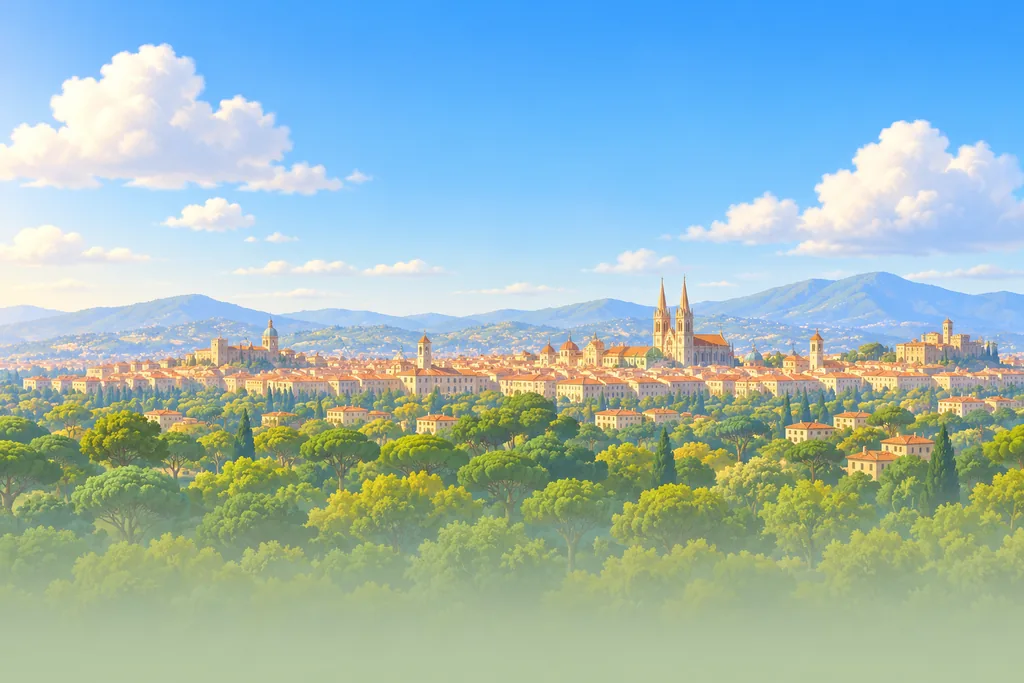
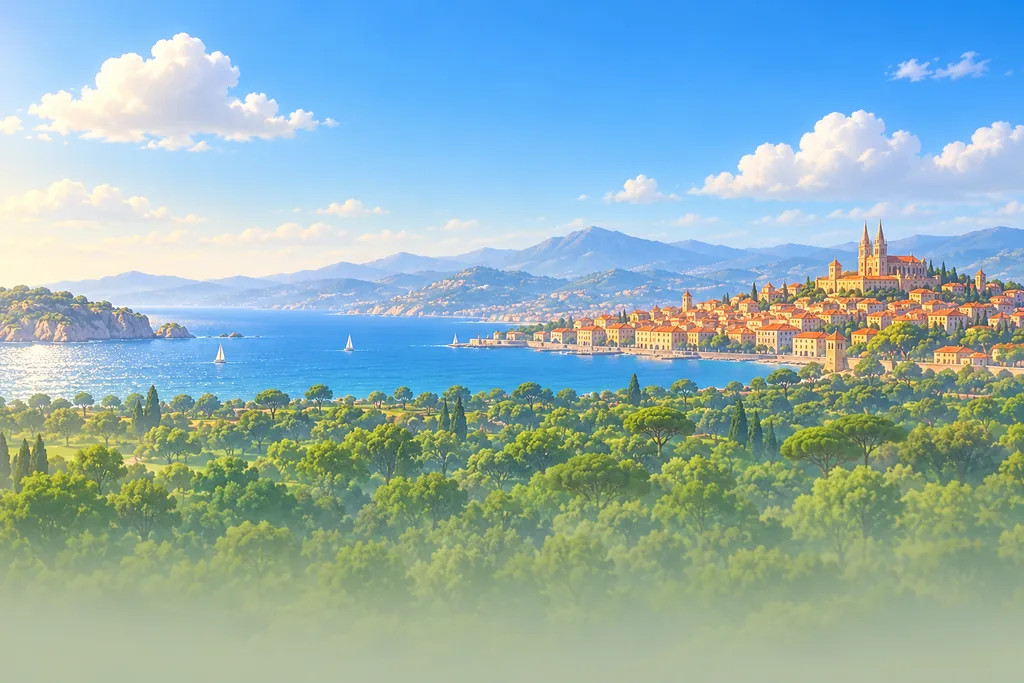
Papierpilot: Fluss mit Steinbrücken, Küstenpanorama, Möwen
Claude-Session: https://claude.ai/code/session_01VwMg3sfRcARXgQsn9WbmLP

diff --git a/public/spiele/papierpilot/game.js b/public/spiele/papierpilot/game.js
@@ -1,7 +1,7 @@
 // PAPIERPILOT: Darstellung (three.js, global THREE), Steuerung, Ton, Speicherstand.
 // Spielregeln stehen ausschließlich in sim.js; hier wird nur gezeigt und eingegeben.
 import { neuerFlug, vorbereiteteStrecke, kraftBei, kodiere, M, TAKT_HZ, LINKS, RECHTS, TIPP, AUF_R, RING_R, START_Y } from './sim.js';
-import { TYPEN, TESTSTRECKE, baueStrecke } from './strecke.js';
+import { TYPEN, TESTSTRECKE, FLUSS_B, baueStrecke } from './strecke.js';
 
 const T = window.THREE;
 const $ = (id) => document.getElementById(id);
@@ -71,7 +71,7 @@ let DUNST = new T.Color(0xb5c5a1);
 scene.fog = new T.Fog(DUNST, 60, SICHT + 60);
 
 const IMG = (n) => new URL('img/' + n + '.webp', import.meta.url).href;
-let ASP = { 'baum-rund': 0.967, 'baum-zypresse': 0.208, haus: 1.032, 'haus-schmal': 0.494, 'haus-flach': 2.6, turm: 0.247, 'flieger-gerade': 1.365, panorama: 1.5 };
+let ASP = { 'baum-rund': 0.967, 'baum-zypresse': 0.208, haus: 1.032, 'haus-schmal': 0.494, 'haus-flach': 2.6, turm: 0.247, bruecke: 3.67, 'flieger-gerade': 1.365, panorama: 1.5 };
 const ladeTex = (n, fn) => new T.TextureLoader().load(IMG(n), (t) => { t.needsUpdate = true; fn && fn(t); }, undefined, () => {});
 const canvasTex = (w, h, draw) => { const c = document.createElement('canvas'); c.width = w; c.height = h; draw(c.getContext('2d'), w, h); return new T.CanvasTexture(c); };
 
@@ -94,7 +94,7 @@ const PANO_D = 320, PANO_B = 640;
 const panoMat = new T.MeshBasicMaterial({ map: ladeTex('panorama'), fog: false, depthWrite: false });
 const pano = new T.Mesh(new T.PlaneGeometry(PANO_B, PANO_B / 1.5), panoMat);
 pano.renderOrder = -1; scene.add(pano);
-let panoHorizont = 0.56;
+let panoHorizont = 0.46;
 
 // Schatten (weicher Fleck)
 const schattenTex = canvasTex(64, 64, (x, w, h) => { const g = x.createRadialGradient(w / 2, h / 2, 2, w / 2, h / 2, w / 2); g.addColorStop(0, 'rgba(20,40,10,.55)'); g.addColorStop(1, 'rgba(20,40,10,0)'); x.fillStyle = g; x.fillRect(0, 0, w, h); });
@@ -145,6 +145,39 @@ for (const a of WELT.a) {
   const g = new T.CylinderGeometry(1, 1, AUF_H, 28, 1, true); g.translate(0, AUF_H / 2, 0);
   const m = new T.Mesh(g, aufMat); m.renderOrder = 2; m.position.set(a.x, 0, -(a.z + a.l / 2)); m.scale.set(AUF_R / M, 1, a.l / 2); scene.add(m);
   const fleck = schatten(a.x, a.z + a.l / 2, AUF_R / M * 2.4, a.l * 1.1, 1); fleck.material = new T.MeshBasicMaterial({ map: schattenTex, color: 0x3fe3dc, transparent: true, opacity: 0.55, depthWrite: false, blending: T.AdditiveBlending });
+}
+
+// Fluss: flacher Streifen über dem Rasen; die Brücken an beiden Enden verdecken die Wasserkanten
+const flussTex = ladeTex('fluss'); flussTex.wrapS = T.ClampToEdgeWrapping; flussTex.wrapT = T.RepeatWrapping;
+flussTex.anisotropy = Math.min(8, renderer.capabilities.getMaxAnisotropy());
+const flussMat = new T.MeshBasicMaterial({ map: flussTex });
+for (const w of WELT.w) {
+  const g = new T.PlaneGeometry(FLUSS_B, w.l), uv = g.attributes.uv;
+  for (let i = 0; i < uv.count; i++) uv.setY(i, uv.getY(i) * w.l / (FLUSS_B * 1.5));   // Bild ist 1 : 1,5
+  const m = new T.Mesh(g, flussMat); m.rotation.x = -Math.PI / 2; m.position.set(w.x, 0.02, -(w.z + w.l / 2)); m.renderOrder = 0; scene.add(m);
+}
+
+// Möwen: nur Optik, im Code gezeichnet (zwei Flügelstellungen), kreisen hoch über der Strecke
+const moeweTex = [0, 1].map((oben) => canvasTex(128, 64, (x, w, h) => {
+  const y0 = oben ? 18 : 40, y1 = oben ? 46 : 30;
+  x.lineCap = 'round'; x.lineJoin = 'round';
+  for (const [farbe, breite] of [['#5b6470', 11], ['#ffffff', 7]]) {
+    x.strokeStyle = farbe; x.lineWidth = breite; x.beginPath();
+    x.moveTo(8, y0); x.quadraticCurveTo(36, oben ? 8 : 26, 64, y1); x.quadraticCurveTo(92, oben ? 8 : 26, 120, y0); x.stroke();
+  }
+  x.fillStyle = '#3a3f47'; x.beginPath(); x.arc(9, y0, 4, 0, 7); x.arc(119, y0, 4, 0, 7); x.fill();
+}));
+const moeweMat = moeweTex.map((tx) => ausblenden(new T.MeshBasicMaterial({ map: tx, alphaTest: 0.5, side: T.DoubleSide })));
+const moewen = [];
+{
+  let r = 0x51a7; const zz = () => { r = (Math.imul(r, 1664525) + 1013904223) >>> 0; return r / 4294967296; };
+  for (let z = 30; z < WELT.laenge + 100; z += 45 + zz() * 40) {
+    const n = 1 + Math.floor(zz() * 3), cx = (zz() - 0.5) * 30, cy = 25 + zz() * 12;
+    for (let i = 0; i < n; i++) {
+      const m = new T.Mesh(new T.PlaneGeometry(1.15, 0.58), moeweMat[0]); scene.add(m);
+      moewen.push({ m, cx: cx + (zz() - 0.5) * 6, cz: z + (zz() - 0.5) * 6, y: cy + zz() * 3, r: 5 + zz() * 8, w: (zz() < 0.5 ? -1 : 1) * (0.25 + zz() * 0.2), ph: zz() * 6.28, fl: 7 + zz() * 3 });
+    }
+  }
 }
 
 // Ringe: goldener Torus mit Schein
@@ -286,7 +319,7 @@ function ende() {
   store.fluege++;
   if (rekord) { store.best = cm; store.bestT = s.ft; store.bestIn = kodiere(eingaben); }
   speichern();
-  const namen = { baum: 'Baum', zypresse: 'Zypresse', haus: 'Haus', hausHoch: 'Haus', hausFlach: 'Haus', turm: 'Turm' };
+  const namen = { baum: 'Baum', zypresse: 'Zypresse', haus: 'Haus', hausHoch: 'Haus', hausFlach: 'Haus', turm: 'Turm', bruecke: 'Brücke' };
   $('eKopf').textContent = rekord && cm > 0 ? 'Neuer Bestflug!' : s.grund === 'hindernis' ? 'Gegen ' + (s.treffer >= 0 ? (s.treffer >= 0 && namen[STRECKE.o[s.treffer].t]) : 'Hindernis') + '!' : 'Gelandet';
   $('eKopf').className = rekord && cm > 0 ? 'rek' : '';
   $('eDist').innerHTML = meter(cm) + '<small> m</small>';
@@ -366,6 +399,14 @@ function bild(now) {
   // Spuren
   const sp = spitzen(p);
   spuren.forEach((q, i) => { q.m.visible = zustand !== 'wurf' && zustand !== 'titel'; if (q.m.visible) spurZeichnen(q, sp[i]); });
+
+  // Möwen
+  for (const g of moewen) {
+    const a = g.ph + zeit * g.w;
+    g.m.position.set(g.cx + Math.cos(a) * g.r, g.y + Math.sin(zeit * 0.8 + g.ph) * 0.7, -(g.cz + Math.sin(a) * g.r));
+    g.m.quaternion.copy(camera.quaternion);
+    g.m.material = moeweMat[Math.sin(zeit * g.fl + g.ph) > -0.2 ? 1 : 0];
+  }
 
   // Aufwind-Animation und Ringe
   aufMat.uniforms.t.value = zeit;

diff --git a/public/spiele/papierpilot/strecke.js b/public/spiele/papierpilot/strecke.js
@@ -12,12 +12,16 @@ export const TYPEN = {
   haus:     { bild: 'haus',          bildH: 9.7,  form: 'kasten', hx: 4.4, hz: 2.0, h: 9.0 },
   hausHoch: { bild: 'haus-schmal',   bildH: 13.0, form: 'kasten', hx: 2.9, hz: 2.0, h: 12.0 },   // kaum zu überfliegen
   hausFlach:{ bild: 'haus-flach',    bildH: 5.6,  form: 'kasten', hx: 6.6, hz: 2.5, h: 5.0 },    // flach: mit etwas Höhe drüber
-  turm:     { bild: 'turm',          bildH: 23.5, form: 'kasten', hx: 2.2, hz: 2.2, h: 20.5 }
+  turm:     { bild: 'turm',          bildH: 23.5, form: 'kasten', hx: 2.2, hz: 2.2, h: 20.5 },
+  bruecke:  { bild: 'bruecke',       bildH: 4.6,  form: 'kasten', hx: 8.0, hz: 1.0, h: 3.8 }      // niedrig: drüber oder links vorbei
 };
+
+export const FLUSS_B = 16;   // Breite des Flussbilds (Wasser ca. 10,5 m in der Mitte, Rest Ufermauer und Rasen)
 
 export const LAENGE = 40;   // Länge eines Abschnitts
 
-// o: [typ, x, z]   a: Aufwind [x, zAnfang, Länge]   r: Ring [x, y, z]   (z relativ zum Abschnitt)
+// o: [typ, x, z]   a: Aufwind [x, zAnfang, Länge]   r: Ring [x, y, z]   w: Fluss [xMitte, zAnfang, Länge] (nur Optik)
+// (z relativ zum Abschnitt)
 export const ABSCHNITTE = {
   start:    { o: [['haus', -8, 10], ['hausFlach', 6, 22], ['hausHoch', -2, 36]], a: [[-5, 16, 14]], r: [[-5, 15, 14]] },
   allee:    { o: [['baum', -7, 8], ['baum', 7, 8], ['baum', -7, 24], ['baum', 7, 24], ['zypresse', 0, 32]], a: [[0, 8, 14]], r: [[0, 13, 8]] },
@@ -26,22 +30,25 @@ export const ABSCHNITTE = {
   lichtung: { o: [['baum', -9, 12], ['baum', 9, 22]], a: [[2, 6, 16], [-6, 30, 10]], r: [[2, 12, 6]] },
   tuerme:   { o: [['turm', -5, 10], ['turm', 5, 28], ['zypresse', 6, 12]], a: [[-1, 14, 12]], r: [[0, 11, 19]] },
   hecke:    { o: [['baum', -9, 20], ['baum', -3.5, 20], ['baum', 8.5, 20], ['zypresse', -8, 36]], a: [[3, 24, 12]], r: [[2.5, 10, 20]] },
-  haeuser:  { o: [['hausHoch', -6, 8], ['hausFlach', 5, 18], ['haus', -5, 30], ['baum', 8, 36]], a: [[0, 30, 10]], r: [[0, 11, 30]] }
+  haeuser:  { o: [['hausHoch', -6, 8], ['hausFlach', 5, 18], ['haus', -5, 30], ['baum', 8, 36]], a: [[0, 30, 10]], r: [[0, 11, 30]] },
+  // Fluss rechts neben der Flugbahn, Brücken an beiden Enden verdecken die Wasserenden; über dem Wasser ist es frei
+  fluss:    { o: [['bruecke', 8, 2], ['bruecke', 8, 38], ['baum', -8.5, 12], ['zypresse', -4, 26]], a: [[7, 12, 14]], r: [[7, 7, 20]], w: [[8, 2, 36]] }
 };
 
 // Teststrecke für V1 (fest). "-" vor dem Namen = gespiegelt (x * -1).
-export const TESTSTRECKE = ['start', 'allee', 'turm', 'slalom', 'lichtung', 'tuerme', 'hecke', 'haeuser',
-  '-allee', '-turm', '-slalom', '-lichtung', '-tuerme', '-hecke', '-haeuser'];
+export const TESTSTRECKE = ['start', 'allee', 'turm', 'slalom', 'lichtung', 'fluss', 'tuerme', 'hecke', 'haeuser',
+  '-allee', '-turm', '-slalom', '-fluss', '-lichtung', '-tuerme', '-hecke', '-haeuser'];
 
 // Strecke als flache Listen mit absoluten Koordinaten (Meter), nach z sortiert.
 export function baueStrecke(namen) {
-  const o = [], a = [], r = [];
+  const o = [], a = [], r = [], w = [];
   namen.forEach((n, i) => {
     const sp = n[0] === '-' ? -1 : 1, ab = ABSCHNITTE[sp < 0 ? n.slice(1) : n], z0 = i * LAENGE;
     for (const [t, x, z] of ab.o) o.push({ t, x: x * sp, z: z0 + z });
     for (const [x, z, l] of ab.a) a.push({ x: x * sp, z: z0 + z, l });
     for (const [x, y, z] of ab.r) r.push({ x: x * sp, y, z: z0 + z });
+    for (const [x, z, l] of ab.w || []) w.push({ x: x * sp, z: z0 + z, l });
   });
   const nachZ = (p, q) => p.z - q.z;
-  return { o: o.sort(nachZ), a: a.sort(nachZ), r: r.sort(nachZ), laenge: namen.length * LAENGE };
+  return { o: o.sort(nachZ), a: a.sort(nachZ), r: r.sort(nachZ), w, laenge: namen.length * LAENGE };
 }

diff --git a/tools/papierpilot-assets.py b/tools/papierpilot-assets.py
@@ -30,7 +30,9 @@ SPRITES = [
     ('haus-schmal', 'pp-haus-schmal.png', 320, 640),
     ('haus-flach', 'pp-haus-flach.png', 640, 320),
     ('turm', 'pp-turm.png', 256, 768),
+    ('bruecke', 'pp-bruecke.png', 768, 320),
 ]
+PANORAMA, PANORAMA_HORIZONT = 'pp-panorama-kueste.png', 0.46   # vorher pp-panorama.png, 0.56
 FLIEGER = [('flieger-gerade', 'pp-flieger-gerade.png'), ('flieger-kurve', 'pp-flieger-kurve.png')]
 
 
@@ -74,12 +76,22 @@ def main():
     g = Image.open(os.path.join(SRC, 'pp-boden-park.png')).convert('RGB').resize((512, 512), Image.LANCZOS)
     g.save(os.path.join(OUT, 'boden-park.webp'), 'WEBP', quality=80, method=6)
     manifest['boden-park'] = {'w': 512, 'h': 512}
-    # Panorama: deckend; Dunstfarbe am unteren Rand für den Bodennebel
-    p = Image.open(os.path.join(SRC, 'pp-panorama.png')).convert('RGB')
+    # Fluss: deckend, oben/unten nahtlos (Ränder mit der um die halbe Höhe verschobenen Kopie überblenden)
+    f = np.array(Image.open(os.path.join(SRC, 'pp-fluss.png')).convert('RGB')).astype(np.float32)
+    h = f.shape[0]; band = int(h * 0.12)
+    m = np.ones(h, np.float32)
+    ramp = np.linspace(0, 1, band, dtype=np.float32)
+    m[:band] = ramp; m[h - band:] = ramp[::-1]
+    f = f * m[:, None, None] + np.roll(f, h // 2, axis=0) * (1 - m[:, None, None])
+    f = Image.fromarray(f.clip(0, 255).astype(np.uint8)).resize((512, 768), Image.LANCZOS)
+    f.save(os.path.join(OUT, 'fluss.webp'), 'WEBP', quality=82, method=6)
+    manifest['fluss'] = {'w': 512, 'h': 768, 'wasser': [182 / 1024, 833 / 1024]}
+    # Panorama (Küste): deckend; Dunstfarbe am unteren Rand für den Bodennebel; Horizont = Meereslinie
+    p = Image.open(os.path.join(SRC, PANORAMA)).convert('RGB')
     dunst = np.array(p)[-24:].reshape(-1, 3).mean(0).round().astype(int).tolist()
     p = p.resize((1024, round(1024 * p.height / p.width)), Image.LANCZOS)
     p.save(os.path.join(OUT, 'panorama.webp'), 'WEBP', quality=82, method=6)
-    manifest['panorama'] = {'w': p.width, 'h': p.height, 'horizont': 0.56, 'dunst': '#%02x%02x%02x' % tuple(dunst)}
+    manifest['panorama'] = {'w': p.width, 'h': p.height, 'horizont': PANORAMA_HORIZONT, 'dunst': '#%02x%02x%02x' % tuple(dunst)}
     with open(os.path.join(OUT, 'manifest.json'), 'w', encoding='utf-8') as f:
         json.dump(manifest, f, indent=1)
     for k, v in manifest.items():

diff --git a/docs/PAPIERPILOT.md b/docs/PAPIERPILOT.md
@@ -23,7 +23,7 @@ Darstellung: Boden ist eine echte 3D-Fläche (gekachelte Parktextur), alle Objek
 Kollisionen hängen an einfachen Formen in `TYPEN` (Säule bzw. Quader mit Höhe), bewusst etwas kleiner als das Bild.
 
 ## Bilder (Charge 1, ChatGPT)
-Flieger gerade/Kurve (Rechtskurve = gespiegelt), Boden Park, Panorama, Baum rund, Zypresse, Haus, Turm. Charge 2: schmales hohes Haus (`hausHoch`, kaum zu überfliegen) und flaches breites Landhaus (`hausFlach`, mit etwas Höhe überfliegbar). Zweitversionen von Zypresse und Turm liegen als `*-alt.png` bei (ungenutzt).
+Flieger gerade/Kurve (Rechtskurve = gespiegelt), Boden Park, Panorama, Baum rund, Zypresse, Haus, Turm. Charge 2: schmales hohes Haus (`hausHoch`, kaum zu überfliegen) und flaches breites Landhaus (`hausFlach`, mit etwas Höhe überfliegbar). Charge 3: Küstenpanorama (`pp-panorama-kueste.png`, Horizont = Meereslinie bei 46 %; das alte Parkpanorama bleibt als Original liegen), Fluss (`pp-fluss.png`, oben/unten per Überblendung nahtlos gemacht) und Steinbrücke (`bruecke`, niedrig: drüber oder seitlich vorbei). Abschnitt `fluss`: Fluss rechts entlang der Flugbahn, Brücken an beiden Enden verdecken die Wasserkanten. Möwen sind reine Optik und werden im Code gezeichnet. Zweitversionen von Zypresse und Turm liegen als `*-alt.png` bei (ungenutzt).
 
 ## Kachel und Teilen-Vorschau
 Kachel für die Startseite: `public/bilder/papierpilot.webp` (720×720, ohne Schrift, aus `design/papierpilot/pp-kachel.png`). Teilen-Vorschau: `public/bilder/papierpilot-og.jpg` (1200×630) per `node tools/papierpilot-cover.mjs` aus `pp-social.png`; der Schriftzug wird dort in der PlaySaal-Schrift gesetzt, nicht von der Bild-KI. Die Kachel kommt erst mit der Freigabe auf die Startseite.
